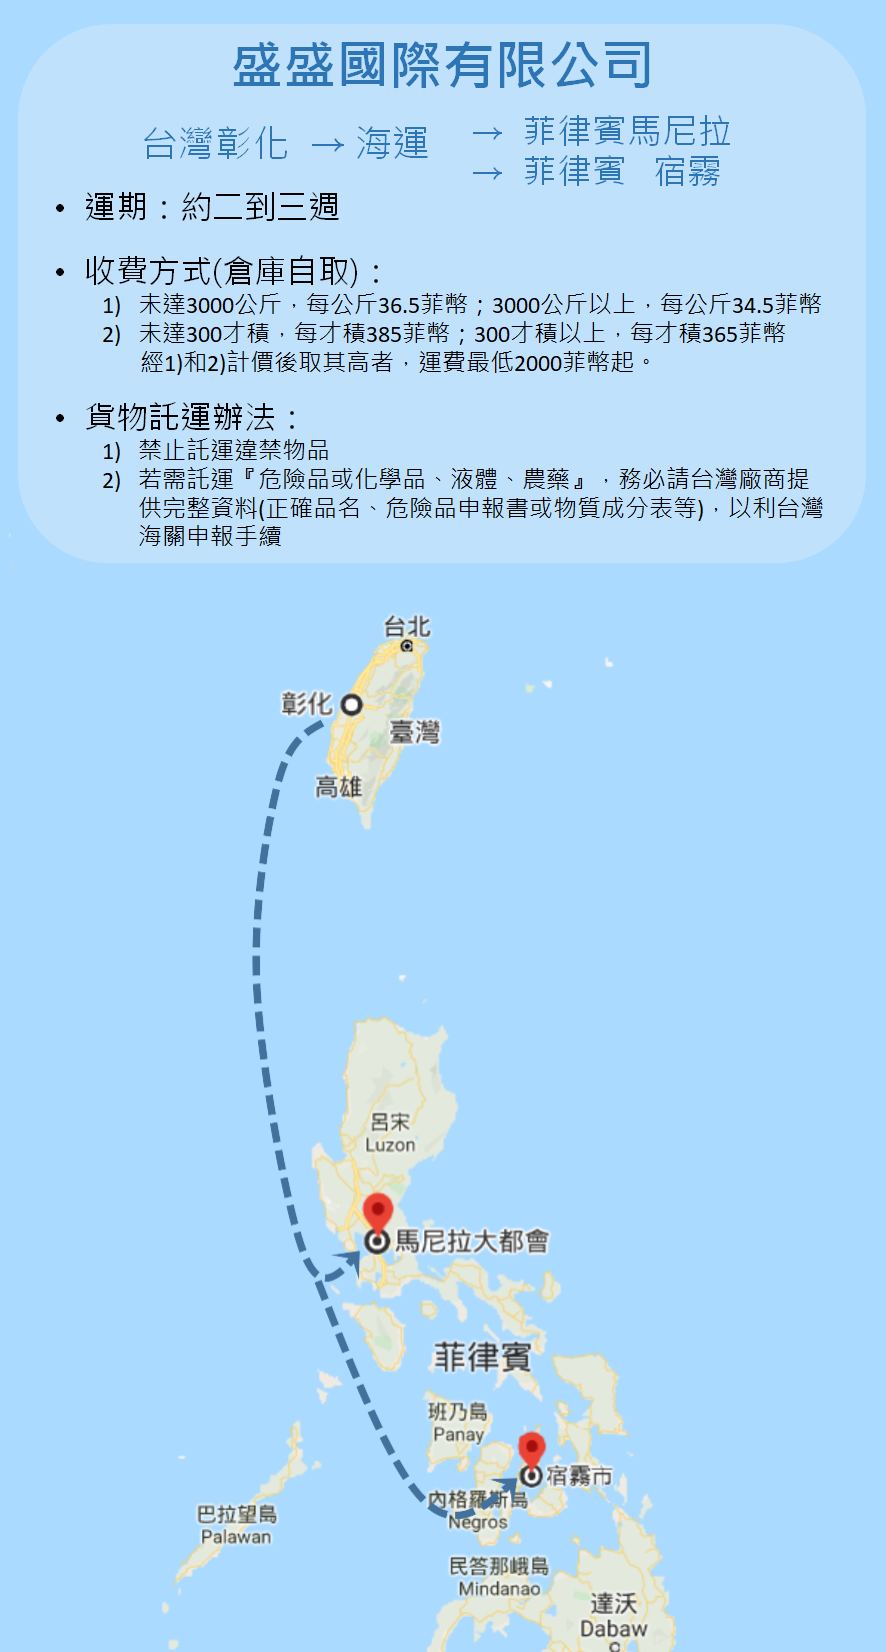
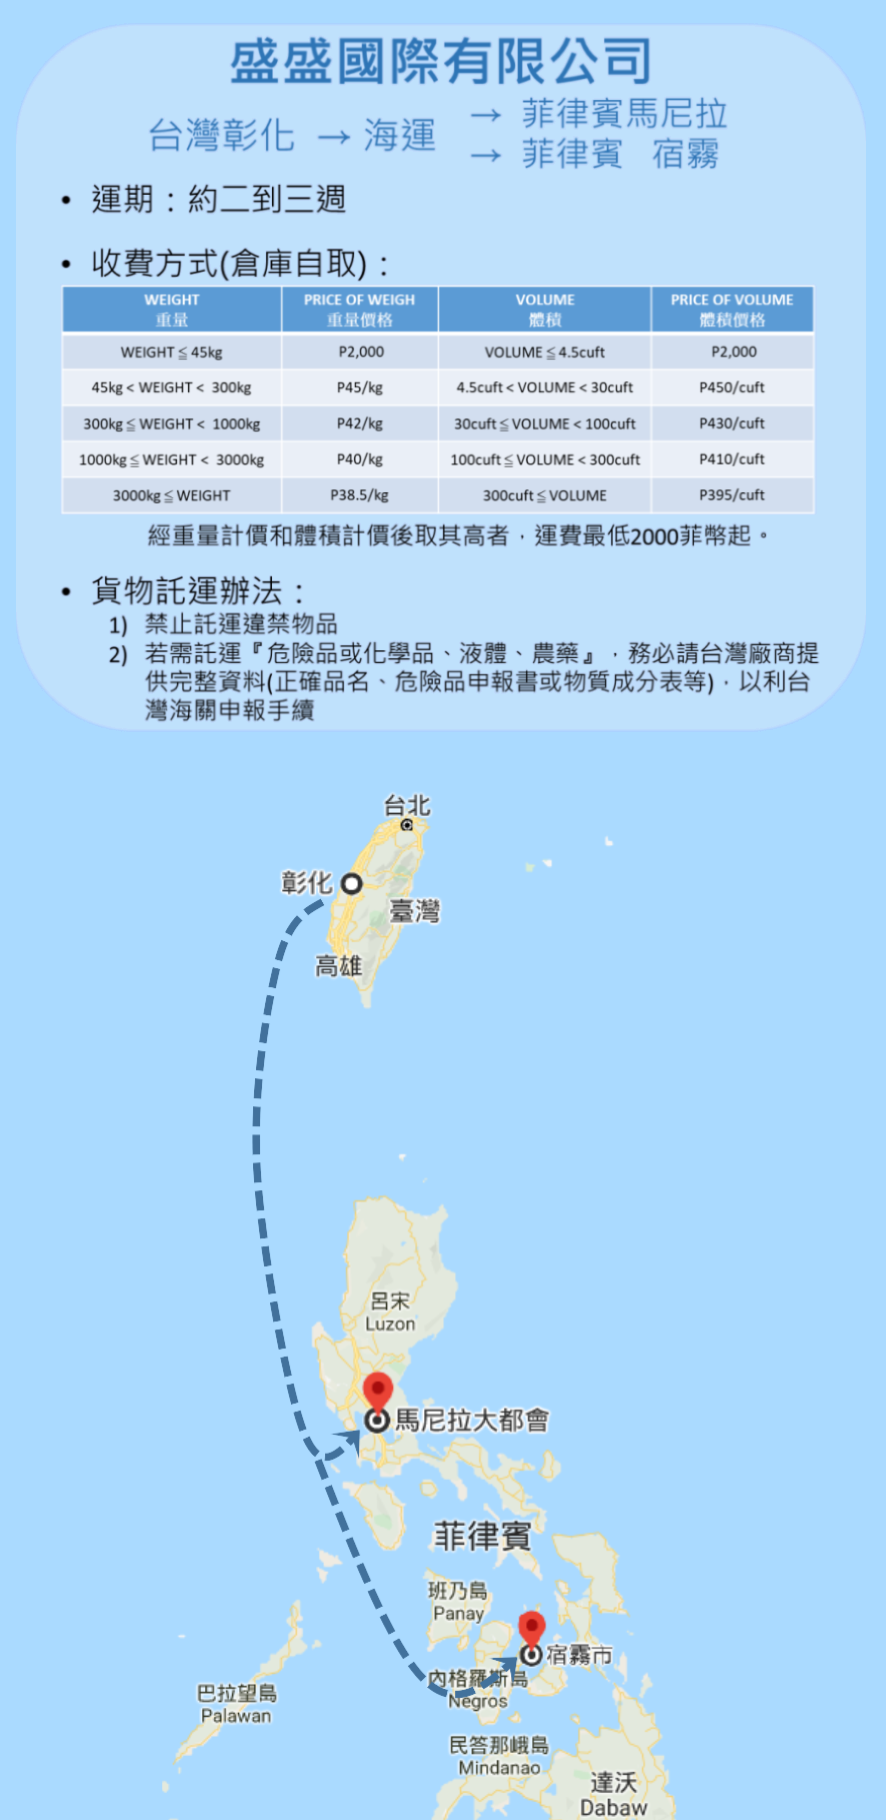
0301

Changed region(s): [[0.0609, 0.0, 0.9447, 1.0]]

diff --git a/calculate_fee_sea.html b/calculate_fee_sea.html
@@ -607,7 +607,9 @@
 
                 <ul>
                     <li>重量計價</li>
-                    <li> ● 重量 ＜ 3,000公斤<br>每公斤 菲幣36.5元<br><br> ● 重量 ≧ 3,000公斤<br>每公斤 菲幣34.5元<br>
+                    <li> ● 重量 ≦ 45公斤<br>運費 菲幣2000元<br><br> ● 45公斤 < 重量 < 300公斤<br>每公斤 菲幣45元<br><br>
+                         ● 300公斤 ≦ 重量 < 1,000公斤<br>每公斤 菲幣42元<br><br> ● 1,000公斤 ≦ 重量 < 3,000公斤<br>每公斤 菲幣40元<br><br>
+                         ● 重量 ≧ 3,000公斤<br>每公斤 菲幣38.5元<br>
                     </li>
                 </ul>
 
@@ -617,7 +619,9 @@
 
                 <ul>
                     <li>體積計價</li>
-                    <li> ● 體積 ＜ 300才積<br>每才積 菲幣385元<br><br> ● 體積 ≧ 300才積<br>每才積 菲幣365元<br>
+                    <li> ● 體積 ≦ 4.5才積<br>運費 菲幣2000元<br><br> ● 4.5才積 < 體積 < 30才積<br>每才積 菲幣45元<br><br>
+                         ● 30才積 ≦ 體積 < 100才積<br>每才積 菲幣42元<br><br> ● 100才積 ≦ 體積 < 300才積<br>每才積 菲幣40元<br><br>
+                         ● 體積 ≧ 300才積<br>每才積 菲幣38.5元<br>
                     </li>
                 </ul>
 
@@ -796,14 +800,26 @@
                     else {
                         volume = volume1/100.00 * volume2/100.00 * volume3/100.00 * 35.3;
 
-                        if (volume < 300) {
-                            fee = volume * 385;
-                        } else {
-                            fee = volume * 365;
-                        }
-
-                        if (fee < 2000) {
+                        if (volume <= 4.5) {
                             fee = 2000;
+                        }
+                        else {
+                            if (volume < 30) {
+                                fee = volume * 450;
+                            }
+                            else {
+                                if (volume < 100) {
+                                    fee = volume * 430;
+                                }
+                                else {
+                                    if (volume < 300) {
+                                        fee = volume * 410;
+                                    }
+                                    else {
+                                        fee = volume * 395;
+                                    }
+                                }
+                            }
                         }
 
                         document.getElementById("cal_result").innerHTML = "運費金額粗估為 菲幣" + FormatNumber(fee) + "元 <span style='color: red;'> (實際收費金額以現場丈量為主)</span>";
@@ -811,15 +827,27 @@
                 }
                 else {
                     if (isNaN(volume1) || isNaN(volume2) || isNaN(volume3)) {
-                        if (weight < 3000) {
-                            fee = weight * 36.5;
+
+                        if (weight <= 45) {
+                            fee = 2000;
                         }
                         else {
-                            fee = weight * 34.5;
-                        }
-
-                        if (fee < 2000) {
-                            fee = 2000;
+                            if (weight < 300) {
+                                fee = weight * 45;
+                            }
+                            else {
+                                if (weight < 1000) {
+                                    fee = weight * 42;
+                                }
+                                else {
+                                    if (weight < 3000) {
+                                        fee = weight * 40;
+                                    }
+                                    else {
+                                        fee = weight * 38.5;
+                                    }
+                                }
+                            }
                         }
 
                         document.getElementById("cal_result").innerHTML = "運費金額粗估為 菲幣" + FormatNumber(fee) + "元 <span style='color: red;'> (實際收費金額以現場丈量為主)</span>";
@@ -829,16 +857,49 @@
                         var fee1 = 0.00;
                         var fee2 = 0.00;
 
-                        if (volume < 300) {
-                            fee1 = volume * 385;
-                        } else {
-                            fee1 = volume * 365;
+                        if (volume <= 4.5) {
+                            fee1 = 2000;
+                        }
+                        else {
+                            if (volume < 30) {
+                                fee1 = volume * 450;
+                            }
+                            else {
+                                if (volume < 100) {
+                                    fee1 = volume * 430;
+                                }
+                                else {
+                                    if (volume < 300) {
+                                        fee1 = volume * 410;
+                                    }
+                                    else {
+                                        fee1 = volume * 395;
+                                    }
+                                }
+                            }
                         }
 
-                        if (weight < 3000) {
-                            fee2 = weight * 36.5;
-                        } else {
-                            fee2 = weight * 34.5;
+
+                        if (weight <= 45) {
+                            fee2 = 2000;
+                        }
+                        else {
+                            if (weight < 300) {
+                                fee2 = weight * 45;
+                            }
+                            else {
+                                if (weight < 1000) {
+                                    fee2 = weight * 42;
+                                }
+                                else {
+                                    if (weight < 3000) {
+                                        fee2 = weight * 40;
+                                    }
+                                    else {
+                                        fee2 = weight * 38.5;
+                                    }
+                                }
+                            }
                         }
 
                         if (fee1 > fee2) {

diff --git a/index.html b/index.html
@@ -810,14 +810,26 @@
                     else {
                         volume = volume1/100.00 * volume2/100.00 * volume3/100.00 * 35.3;
 
-                        if (volume < 300) {
-                            fee = volume * 385;
-                        } else {
-                            fee = volume * 365;
-                        }
-
-                        if (fee < 2000) {
+                        if (volume <= 4.5) {
                             fee = 2000;
+                        }
+                        else {
+                            if (volume < 30) {
+                                fee = volume * 450;
+                            }
+                            else {
+                                if (volume < 100) {
+                                    fee = volume * 430;
+                                }
+                                else {
+                                    if (volume < 300) {
+                                        fee = volume * 410;
+                                    }
+                                    else {
+                                        fee = volume * 395;
+                                    }
+                                }
+                            }
                         }
 
                         document.getElementById("cal_result").innerHTML = "運費金額粗估為 菲幣" + FormatNumber(fee) + "元 <span style='color: red;'> (實際收費金額以現場丈量為主)</span>";
@@ -825,15 +837,27 @@
                 }
                 else {
                     if (isNaN(volume1) || isNaN(volume2) || isNaN(volume3)) {
-                        if (weight < 3000) {
-                            fee = weight * 36.5;
+
+                        if (weight <= 45) {
+                            fee = 2000;
                         }
                         else {
-                            fee = weight * 34.5;
-                        }
-
-                        if (fee < 2000) {
-                            fee = 2000;
+                            if (weight < 300) {
+                                fee = weight * 45;
+                            }
+                            else {
+                                if (weight < 1000) {
+                                    fee = weight * 42;
+                                }
+                                else {
+                                    if (weight < 3000) {
+                                        fee = weight * 40;
+                                    }
+                                    else {
+                                        fee = weight * 38.5;
+                                    }
+                                }
+                            }
                         }
 
                         document.getElementById("cal_result").innerHTML = "運費金額粗估為 菲幣" + FormatNumber(fee) + "元 <span style='color: red;'> (實際收費金額以現場丈量為主)</span>";
@@ -843,17 +867,51 @@
                         var fee1 = 0.00;
                         var fee2 = 0.00;
 
-                        if (volume < 300) {
-                            fee1 = volume * 385;
-                        } else {
-                            fee1 = volume * 365;
+                        if (volume <= 4.5) {
+                            fee1 = 2000;
+                        }
+                        else {
+                            if (volume < 30) {
+                                fee1 = volume * 450;
+                            }
+                            else {
+                                if (volume < 100) {
+                                    fee1 = volume * 430;
+                                }
+                                else {
+                                    if (volume < 300) {
+                                        fee1 = volume * 410;
+                                    }
+                                    else {
+                                        fee1 = volume * 395;
+                                    }
+                                }
+                            }
                         }
 
-                        if (weight < 3000) {
-                            fee2 = weight * 36.5;
-                        } else {
-                            fee2 = weight * 34.5;
+
+                        if (weight <= 45) {
+                            fee2 = 2000;
                         }
+                        else {
+                            if (weight < 300) {
+                                fee2 = weight * 45;
+                            }
+                            else {
+                                if (weight < 1000) {
+                                    fee2 = weight * 42;
+                                }
+                                else {
+                                    if (weight < 3000) {
+                                        fee2 = weight * 40;
+                                    }
+                                    else {
+                                        fee2 = weight * 38.5;
+                                    }
+                                }
+                            }
+                        }
+
 
                         if (fee1 > fee2) {
                             fee = fee1;
